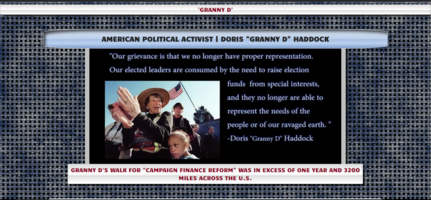
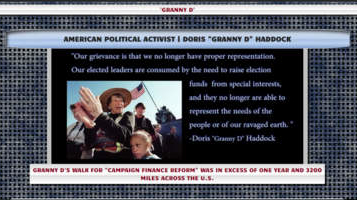
make images local

diff --git a/index.html b/index.html
@@ -26,15 +26,15 @@
 <li class="dropdown">
     <a href="#" class="dropbtn">Projects</a>
     <div class="dropdown-content">
-      <a href="#news1">Link 1</a>
-      <a href="#news3">Link 2</a>
-      <a href="#news6">Link 3</a>
+      <a href="#proj1">Link 1</a>
+      <a href="#proj3">Link 2</a>
+      <a href="#proj6">Link 3</a>
     </div>
   </li>
   <li><a class="active" href="#home">Home</a></li>
 </ul><!--end of navbar buttons-->
 
-<section style="background: #ffd180">
+<section>
   <div  class="container-fluid">
     <div class="well" id="welcome">
       <div class="profile-header-content">
@@ -49,13 +49,13 @@
   <div class="picAnchor"><img class="profile-avatar" src="images/alex150.jpg">
   </div>
   <div class="profile-location-and-bio" id="profile-location-and-bio">
-    <div id="profile-location" class="profile-location">Monroe, NY, United States
+    <div id="profile-location" class="profile-location">Alexander Nelson | New York - United States| AmVetServ@gmail.com
     </div>
   </div>
 </section> <!-- extending section tag to here prevents a break in background color -->
 
 <!-- Time log chart -->
-<section style="background: #ffd180">
+<section>
   <div  class="container-fluid">
     <div class="well" id="chartwell">
       <iframe class="chart" src="https://docs.google.com/spreadsheets/d/1oU8crZsV-PQ8OVBJOgB8eFLjMRRUi8z83Zr97FvRy4s/pubhtml?widget=true&amp;headers=false" style="border: 0">
@@ -64,73 +64,74 @@
   </div>
 </section>
 
-<div class="row">
-   <a id="news1">
-     <div class="col-xs-6"></a>
-   <h3><i class="fa fa-android" aria-hidden="true"></i> Android Development</h3>
-<div class="well" id="titleWell" >
-  <a id="news3">
-  <div class="hovereffect"></a>
-      <img class="img-responsive" src="https://s32.postimg.org/is3xchoqt/grannyd2.png" alt="">
-    <div class="overlay"><h2>Tribute To Granny D</h2><a target="_blank" class="info" href="http://codepen.io/AlexanderNelson/full/PzZgpd/">View Here</a>
-    </div>
-  </div>
-
- <a class="btn button-default" target="_blank" href="http://codepen.io/AlexanderNelson/full/PzZgpd/">Tribute To Granny D</a>
-  <a id="news6"> <div class="hovereffect"></a>
-     <img class="img-responsive" src="https://s31.postimg.org/7aeis6y17/Screenshot_2016_07_26_at_10_20_41.png" alt="">
-    <div class="overlay"><h2>Tribute To Granny D</h2><a target="_blank" class="info" href="http://codepen.io/AlexanderNelson/full/PzZgpd/">View Here</a>
-    </div>
-  </div>
-
- <a class="btn button-default" target="_blank" href="http://codepen.io/AlexanderNelson/full/PzZgpd/">Tribute To Granny D</a>
-  <div class="hovereffect">
-  <img class="img-responsive" src="https://s31.postimg.org/738zhjvob/Web_Portfolio_Snip.png" alt="">
-    <div class="overlay"><h2>My Web Portfolio</h2><a target="_blank" class="info" href="http://codepen.io/AlexanderNelson/full/jAKrGj/">View Here</a>
-    </div>
-  </div>
-  <a class="btn button-default" target="_blank" href="http://codepen.io/AlexanderNelson/full/jAKrGj/">My Web Portfolio</a>
-   </div>
- </div>
+<section class="row">
+  <a id="proj1">
   <div class="col-xs-6"></a>
-   <h3><i class="fa fa-desktop" aria-hidden="true"></i> Web Development</h3>
-     <div id="titleWell" class="well">
-        <div class="hovereffect">
-          <img class="img-responsive" src="https://s31.postimg.org/738zhjvob/Web_Portfolio_Snip.png" alt="">
+    <h3><i class="fa fa-android" aria-hidden="true"></i> Android Development</h3>
+    <div class="well" id="titleWell">
+
+      <a id="proj3">
+      <div class="hovereffect"></a>
+        <img class="img-responsive" src="images/webres-opt.jpg" alt="interactive web developer resume for Alexander Nelson">
+        <div class="overlay"><h2>Interactive Resume</h2><a target="_blank" class="info" href="https://alexandernelson.github.io/Interactive-Resume/">View Here</a>
+        </div>
+      </div>
+
+      <a id="proj6">
+      <div class="hovereffect"></a>
+        <img class="img-responsive" src="images/grannyd-opt.jpg" alt="Granny D surrounded by children and waving the U.S. flag">
+        <div class="overlay"><h2>Tribute To Granny D</h2><a target="_blank" class="info" href="http://codepen.io/AlexanderNelson/full/PzZgpd/">View Here</a>
+        </div>
+      </div>
+
+      <div class="hovereffect">
+        <img class="img-responsive" src="images/webport-opt.jpg" alt="Portfolio of web development projects by Alexander Nelson">
         <div class="overlay"><h2>My Web Portfolio</h2><a target="_blank" class="info" href="http://codepen.io/AlexanderNelson/full/jAKrGj/">View Here</a>
-    </div>
-</div>
-   <a class="btn button-default" target="_blank" href="http://codepen.io/AlexanderNelson/full/jAKrGj/">My Web Portfolio</a>
-  <div class="hovereffect">
-    <img class="img-responsive" src="https://s32.postimg.org/is3xchoqt/grannyd2.png" alt="">
-    <div class="overlay"><h2>Tribute To Granny D</h2><a target="_blank" class="info" href="http://codepen.io/AlexanderNelson/full/PzZgpd/">View Here</a>
-   </div>
-</div>
-<a class="btn button-default" target="_blank" href="http://codepen.io/AlexanderNelson/full/PzZgpd/">Tribute To Granny D</a>
-  <div class="hovereffect">
-    <img class="img-responsive" src="https://s31.postimg.org/7aeis6y17/Screenshot_2016_07_26_at_10_20_41.png" alt="">
-    <div class="overlay"><h2>Tribute To Granny D</h2><a target="_blank" class="info" href="http://codepen.io/AlexanderNelson/full/PzZgpd/">View Here</a>
-    </div>
-</div>
-  <a class="btn button-default" target="_blank" href="http://codepen.io/AlexanderNelson/full/PzZgpd/">Tribute To Granny D</a>
+        </div>
+      </div>
+      <button class="btn button-default" target="_blank" href="http://codepen.io/AlexanderNelson/full/jAKrGj/">My Web Portfolio</button>
     </div>
   </div>
-</div>
+
+  <div class="col-xs-6"></a>
+    <h3><i class="fa fa-desktop" aria-hidden="true"></i> Web Development</h3>
+    <div id="titleWell" class="well">
+      <div class="hovereffect">
+        <img class="img-responsive" src="images/webport-opt.jpg" alt="">
+        <div class="overlay"><h2>My Web Portfolio</h2><a target="_blank" class="info" href="http://codepen.io/AlexanderNelson/full/jAKrGj/">View Here</a>
+        </div>
+      </div>
+
+      <div class="hovereffect">
+        <img class="img-responsive" src="images/grannyd-opt.jpg" alt="Granny D surrounded by children and waving the U.S. flag.">
+        <div class="overlay"><h2>Tribute To Granny D</h2><a target="_blank" class="info" href="http://codepen.io/AlexanderNelson/full/PzZgpd/">View Here</a>
+        </div>
+      </div>
+
+      <div class="hovereffect">
+        <img class="img-responsive" src="images/grannyd-opt.jpg" alt="Granny D surrounded by children and waving the U.S. flag">
+        <div class="overlay"><h2>Tribute To Granny D</h2><a target="_blank" class="info" href="http://codepen.io/AlexanderNelson/full/PzZgpd/">View Here</a>
+        </div>
+      </div>
+      <button class="btn button-default" target="_blank" href="http://codepen.io/AlexanderNelson/full/PzZgpd/">Tribute To Granny D</button>
+    </div>
+  </div>
+</section>
+
 <hr>
 <h1 id="footer" class="well">Have an idea for a project? Send me a message below!</h1>
 <hr>
-<div id="titleWell" class="well">
-<a id="contact"><form> </a>
-  <i class="fa fa-user" aria-hidden="true"></i>
-  <input name="name" type="text" class="feedback-input" placeholder="Name" />
-  <i class="fa fa-envelope-o" aria-hidden="true"></i>
-  <input name="email" type="text" class="feedback-input" placeholder="Email" />
-  <i class="fa fa-comment-o" aria-hidden="true"></i>
-  <textarea name="text" class="feedback-input" placeholder="Comment"></textarea>
-  <input type="submit" value="SUBMIT"/>
-</form>
-</div>
+<section id="titleWell" class="well">
+  <form>
+    <i class="fa fa-user" aria-hidden="true"></i>
+    <input name="name" type="text" class="feedback-input" placeholder="Name" />
+    <i class="fa fa-envelope-o" aria-hidden="true"></i>
+    <input name="email" type="text" class="feedback-input" placeholder="Email" />
+    <i class="fa fa-comment-o" aria-hidden="true"></i>
+    <textarea name="text" class="feedback-input" placeholder="Comment"></textarea>
+    <input type="submit" value="SUBMIT"/>
+  </form>
+</section>
  <li><a target="_blank" id="footer" href="http://www.timeanddate.com/worldclock/">Visit the World Clock
   &copy 2010-<?php echo date("Y");?><i class="fa fa-clock-o" aria-hidden="true"></i> All Rights Reserved.  |  Prosecutors will be violated.</a></li>
 
-</div>

diff --git a/css/style.css b/css/style.css
@@ -1,4 +1,6 @@
-
+section {
+  background-color: #ffd180;
+}
 ul.topnav {
   -webkit-box-shadow: 10px 10px 20px 0px rgba(82, 81, 82, 0.74);
   -moz-box-shadow: 10px 10px 20px 0px rgba(82, 81, 82, 0.74);
@@ -44,7 +46,9 @@ ul.topnav li a.active {
     li, ul, ul.topnav li.right,
     ul.topnav li {
           display: inline;
-
+margin: 0;
+height:0px;
+padding:0;
       float: none;
       width: 3%;
   }
@@ -53,6 +57,13 @@ ul.topnav li a.active {
 @media (max-width: 690px){
     .topnav{
       font-size: .8em;
+  }
+}
+
+/*shrink project button*/
+@media (max-width: 690px){
+    .btn{
+      transform: scale(.5,.5);
   }
 }
 
@@ -95,7 +106,7 @@ box-shadow: inset 6px 6px 5px -2px rgba(99,49,09,0.74);
   background-size: cover;
   border: 16px solid #ffab14;
   border-radius: 5px;
-  margin: 100px 50px 45px 50px;
+  margin: 3.1em;
   padding: 8% 8% 8% 8%;
 -webkit-box-shadow: 10px 10px 5px -4px rgba(0,0,0,0.75);
 -moz-box-shadow: 10px 10px 5px -4px rgba(0,0,0,0.75);
@@ -135,12 +146,6 @@ box-shadow: 10px 10px 5px -4px rgba(0,0,0,0.75);
   transition: all 0.3s;
 }
 
-/*name bar*/
-/* .profile-header-content {
-    position: relative;
-  margin-top: 220px;
-  margin-bottom: 25px;
-    padding: 5px 0px 5px 0px;  }*/
 .picAnchor {
   position: relative;
   background-image: url("../images/orangefabric-opt.jpg");
@@ -150,7 +155,7 @@ box-shadow: 10px 10px 5px -4px rgba(0,0,0,0.75);
   box-shadow: 10px 10px 5px -4px rgba(0,0,0,0.75);
 }
 @media (max-width: 834px) {
-.profile-avatar, h1 {
+.profile-avatar, h1, .profile-header-content, #welcome {
   width: 100px;
   height: 100px;
   display: none;
@@ -169,23 +174,6 @@ box-shadow: 10px 10px 5px -4px rgba(0,0,0,0.75);
   -moz-box-shadow: 10px 10px 11px -1px rgba(0,0,0,0.75);
   box-shadow: 10px 10px 11px -1px rgba(0,0,0,0.75);
 }
-
-/*.profile-name h1 {
-  display: inline-block;
-  margin: 0 0 5px 0;
-  position: relative
-}*/
-/*@media (max-width: 550px) {
-  .profile-name {
-    text-align: left;
-    padding: 0 0 0 100px;
-  }
-}*/
-/*.profile-username-area .badge {
-  position: relative;
-  top: 0;
-  margin-left: 5px;
-}*/
 
 .profile-location-and-bio {
   text-align: center;
@@ -314,6 +302,7 @@ box-shadow: inset 6px 6px 5px -2px rgba(99,49,09,0.74);
      opacity: .8;
      text-align: center;
      border-radius: 10px;
+     padding: 1em;
     text-shadow:
     -1px -1px 0 #ffab40,
     1px -1px 0 black,
@@ -326,11 +315,11 @@ box-shadow: inset 6px 6px 5px -2px rgba(99,49,09,0.74);
 form { max-width:420px; margin:50px auto; }
 .feedback-input {
   color: #242424;
-  margin-bottom: 10px;
+  margin-bottom: .5em;
   font-weight:800;
-  font-size: 18px;
+  font-size: .5em;
   border-radius: 10px;
-  padding: 20px;
+  padding: .5em;
   width:100%;
 }
 
@@ -363,7 +352,15 @@ box-shadow: inset 6px 6px 5px -2px rgba(99,49,09,0.74);
 #footer {
   background-image: url("../images/orangefabric-opt");
   background-size: cover;
-  font-size: 35px;
-  margin-bottom: 40px;
+  font-size: 2em;
+  margin-bottom: 2em;
+}
 
+img {
+   display: block;
+    margin-left: auto;
+    margin-right: auto;
+    width: 90%;
+    margin-bottom: .5em;
+    margin-top: .5em;
 }
